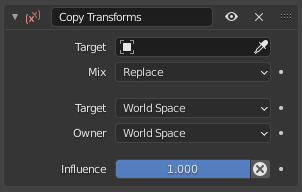
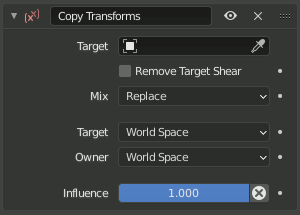
Document new Copy Transforms and Target Space options from D9469, D9493.
Only text; waiting for technical support to add example videos.

Ref rB5a693ce9e396 rBbc8ae58727bf

git-svn-id: https://svn.blender.org/svnroot/bf-manual/trunk@8179 c4de1f47-6596-e411-a384-0024e86c2797

diff --git a/blender_docs/manual/animation/constraints/transform/copy_transforms.rst b/blender_docs/manual/animation/constraints/transform/copy_transforms.rst
@@ -19,21 +19,44 @@ Target
    :ref:`ui-data-id` used to select the constraints target, and is not functional (red state) when it has none.
    See :ref:`common constraint properties <rigging-constraints-interface-common-target>` for more information.
 
+Remove Target Shear
+   Removes shearing from the target transformation after the target space conversion, ensuring it consists purely
+   of translation, rotation and scale. Note that :doc:`Copy Rotation </animation/constraints/transform/copy_rotation>`
+   always does this.
+
 Mix
    Specifies how the copied transformation is combined with the existing transformation.
 
    Replace
       The new transformation replaces the existing transformation.
-   Before Original
-      The new transformation is added before the existing transformation, as if it was
-      applied to an imaginary parent of the constraint owner. Scale is handled like in
-      the :ref:`Aligned Inherit Scale <bpy.types.EditBone.inherit_scale>` mode of bones
-      to avoid creating shear.
-   After Original
-      The new transformation is added after the existing transformation, as if it was
-      applied locally to an imaginary child of the constraint owner. Scale is handled like
-      in the :ref:`Aligned Inherit Scale <bpy.types.EditBone.inherit_scale>` mode of bones
-      to avoid creating shear.
+
+   Before/After Original (Full)
+      The new transformation is added before/after the existing transformation, as if it was
+      applied to an imaginary parent/child of the constraint owner. Scale is handled like in
+      the most basic :ref:`Full Inherit Scale <bpy.types.EditBone.inherit_scale>` mode of bones,
+      so combining non-uniform scale and rotation will create shear.
+
+   Before/After Original (Aligned)
+      The new transformation is added before/after the existing transformation, as if it was
+      applied to an imaginary parent/child of the constraint owner. Scale is handled like in
+      the :ref:`Aligned Inherit Scale <bpy.types.EditBone.inherit_scale>` mode of bones to
+      avoid creating shear.
+
+      This is equivalent to using the *Split Channels* option, but replacing the location component with
+      the result of *Full*. If only uniform scale is used, the result is identical to *Full*.
+
+   Before/After Original (Split Channels)
+      Combines location, rotation and scale components of the transformation separately, similar
+      to a sequence of three :doc:`Copy Location </animation/constraints/transform/copy_location>`,
+      :doc:`Copy Rotation </animation/constraints/transform/copy_rotation>` and
+      :doc:`Copy Scale </animation/constraints/transform/copy_scale>` (with Offset)
+      constraints bundled together in one operation; the result may be slightly different
+      in case of sheared inputs.
+
+      Unlike *Aligned*, in this mode location channels are simply added together, so rotation
+      and scale components of the input transformations cannot affect the resulting location.
+
+   .. TODO: add video comparing mix modes
 
 Target/Owner
    Standard conversion between spaces.

diff --git a/blender_docs/manual/animation/constraints/interface/common.rst b/blender_docs/manual/animation/constraints/interface/common.rst
@@ -94,12 +94,12 @@ Local Space
    and orientation of the bone itself. Only transformations applied to the object or bone itself
    are taken into account.
 
-Local with Parent (bones only)
+Local with Parent :guilabel:`Bones Only`
    The bone position and orientation is evaluated relative to its rest pose location and orientation,
    thus including both its own transformations and those caused by a possible parent relationship
    (i.e. the chain's transformations above the bone).
 
-Pose Space (bones only)
+Pose Space :guilabel:`Bones Only`
    The bone position and orientation is evaluated in the armature object local space
    (i.e. independently from the armature transformations in *Object Mode*).
    Hence, if the armature object has null transformations,
@@ -110,6 +110,20 @@ Custom Space
    an arbitrary object or bone that is specified via additional input fields that appear when this option is selected.
    This can be used to evaluate the constraint using an arbitrary coordinate system.
 
+Local Space (Owner Orientation) :guilabel:`Bone Targets Only`
+   This space works like *Local Space*, with an additional coordinate space transformation
+   that compensates for the difference in the rest pose orientations of the owner and target
+   bones. If applied as the *Local Space* of the owner, this will produce the same global
+   space movement as the target, provided parents are still at rest pose.
+
+   This option replaces the following setup with two additional bones:
+
+   1. An extra `child` bone of the `target`, rotated the same as `owner` in rest pose.
+   2. An extra `sibling` bone of the `target`, positioned same as `child` in rest pose and using
+      :doc:`Copy Transforms </animation/constraints/transform/copy_transforms>` in *World Space* from `child`.
+   3. The constraint uses *Local Space* of `sibling`.
+
+   .. TODO: add a demonstration video
 
 .. _bpy.types.constraint.influence:
 
